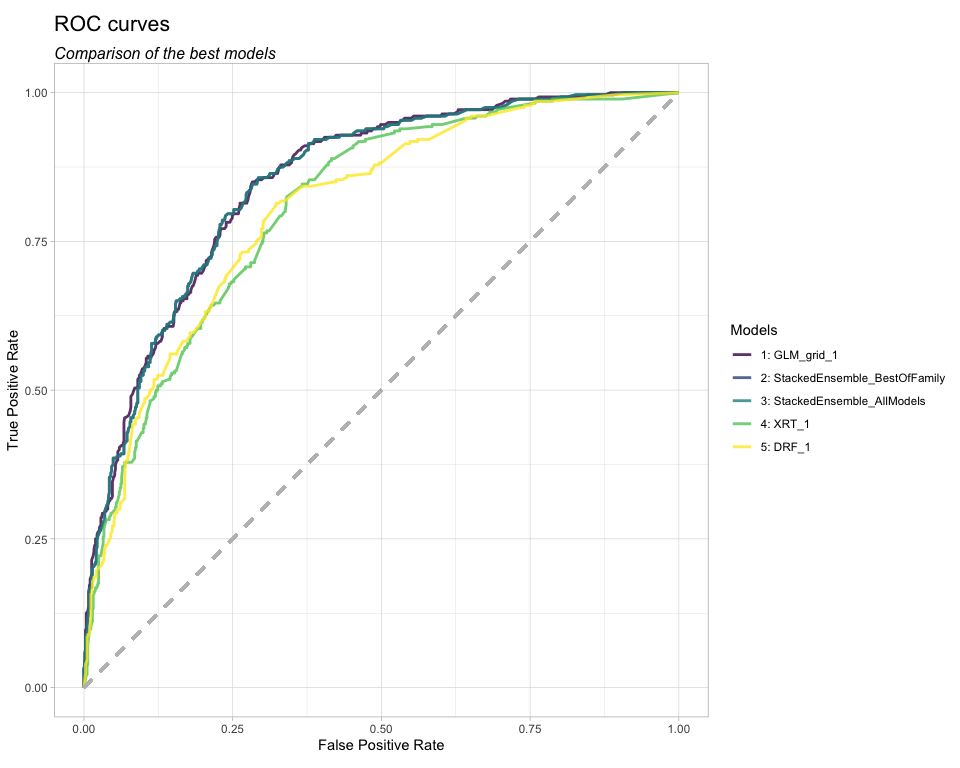
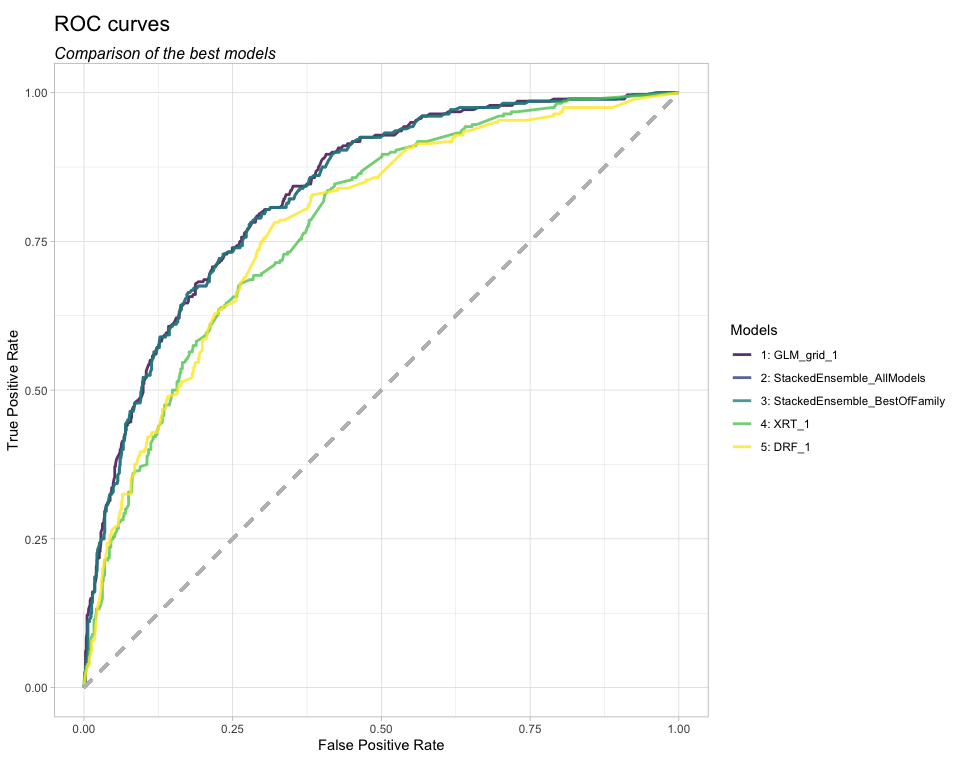
new plots

Changed region(s): [[0.0625, 0.0938, 0.6875, 0.875], [0.9062, 0.4688, 1.0, 0.5312]]

diff --git a/README.md b/README.md
@@ -32,14 +32,14 @@ h2o.init()
     ##  Connection successful!
     ## 
     ## R is connected to the H2O cluster: 
-    ##     H2O cluster uptime:         36 minutes 20 seconds 
+    ##     H2O cluster uptime:         53 minutes 55 seconds 
     ##     H2O cluster timezone:       Europe/Copenhagen 
     ##     H2O data parsing timezone:  UTC 
     ##     H2O cluster version:        3.22.1.1 
-    ##     H2O cluster version age:    2 months and 2 days  
-    ##     H2O cluster name:           H2O_started_from_R_peerchristensen_vfv191 
+    ##     H2O cluster version age:    2 months and 7 days  
+    ##     H2O cluster name:           H2O_started_from_R_peerchristensen_vgi024 
     ##     H2O cluster total nodes:    1 
-    ##     H2O cluster total memory:   3.20 GB 
+    ##     H2O cluster total memory:   3.15 GB 
     ##     H2O cluster total cores:    8 
     ##     H2O cluster allowed cores:  8 
     ##     H2O cluster healthy:        TRUE 
@@ -79,7 +79,7 @@ autoML <- h2o.automl(x = predictors,
                      validation_frame  = valid_hf,
                      leaderboard_frame = test_hf,
                      balance_classes   = TRUE,
-                     max_runtime_secs  = 20)
+                     max_runtime_secs  = 180)
 ```
 
 Plotting ROC curves
@@ -95,20 +95,20 @@ roc_curves(autoML, test_data = test_hf)
 
 ![](README_files/figure-markdown_github/unnamed-chunk-3-1.png)
 
-    ## # A tibble: 1,958 x 5
-    ##    model_id      algorithm     tpr   fpr model_rank
-    ##    <chr>         <chr>       <dbl> <dbl>      <int>
-    ##  1 1: GLM_grid_1 glm       0           0          1
-    ##  2 1: GLM_grid_1 glm       0           0          1
-    ##  3 1: GLM_grid_1 glm       0.00357     0          1
-    ##  4 1: GLM_grid_1 glm       0.00714     0          1
-    ##  5 1: GLM_grid_1 glm       0.0107      0          1
-    ##  6 1: GLM_grid_1 glm       0.0179      0          1
-    ##  7 1: GLM_grid_1 glm       0.0214      0          1
-    ##  8 1: GLM_grid_1 glm       0.025       0          1
-    ##  9 1: GLM_grid_1 glm       0.0286      0          1
-    ## 10 1: GLM_grid_1 glm       0.0321      0          1
-    ## # … with 1,948 more rows
+    ## # A tibble: 2,010 x 5
+    ##    model_id      algorithm     tpr     fpr model_rank
+    ##    <chr>         <chr>       <dbl>   <dbl>      <int>
+    ##  1 1: GLM_grid_1 glm       0       0                1
+    ##  2 1: GLM_grid_1 glm       0       0                1
+    ##  3 1: GLM_grid_1 glm       0.00357 0.00129          1
+    ##  4 1: GLM_grid_1 glm       0.00714 0.00129          1
+    ##  5 1: GLM_grid_1 glm       0.0107  0.00129          1
+    ##  6 1: GLM_grid_1 glm       0.0179  0.00129          1
+    ##  7 1: GLM_grid_1 glm       0.0214  0.00129          1
+    ##  8 1: GLM_grid_1 glm       0.025   0.00129          1
+    ##  9 1: GLM_grid_1 glm       0.0286  0.00258          1
+    ## 10 1: GLM_grid_1 glm       0.0429  0.00258          1
+    ## # … with 2,000 more rows
 
 Bar charts comparing area under the curve (AUC)
 -----------------------------------------------
